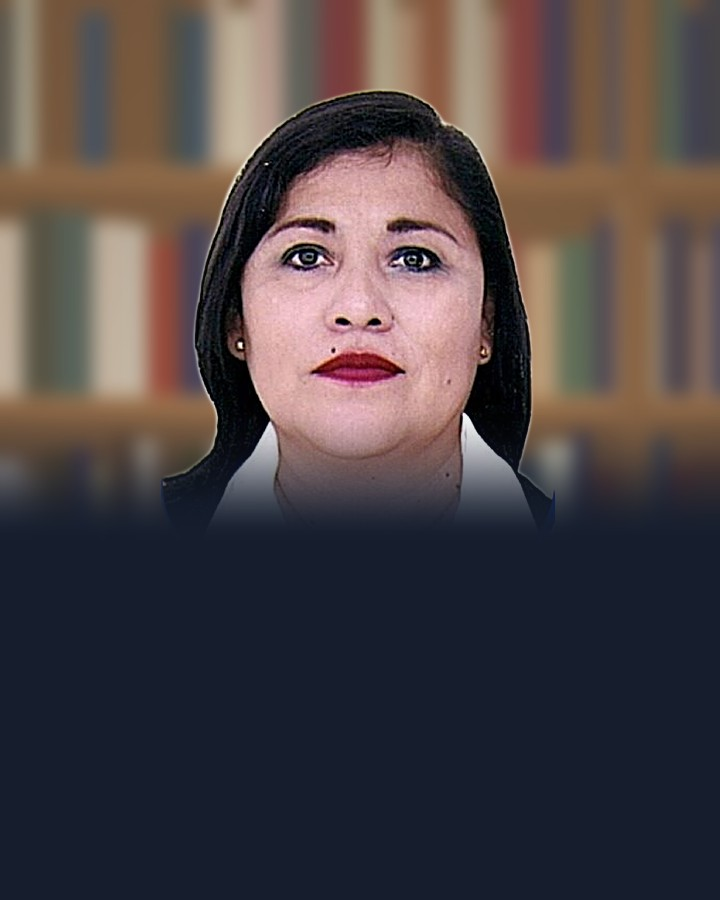
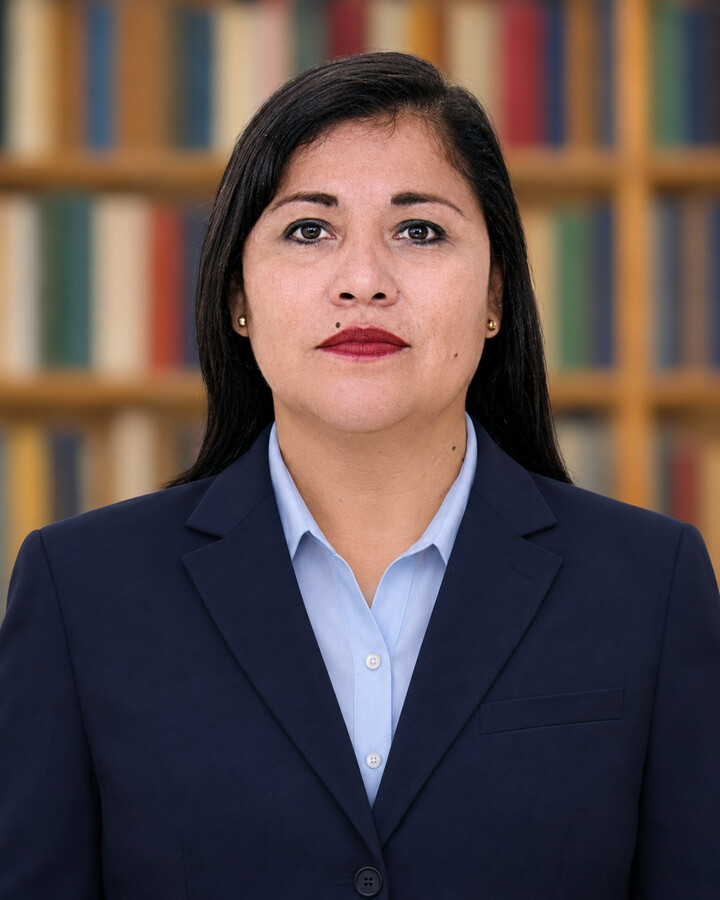
Actualiza retratos institucionales y formato vertical 4:5

diff --git a/public_html/assets/app/portal.css b/public_html/assets/app/portal.css
@@ -1687,7 +1687,7 @@ tr.pz-bad td{background:var(--errbg)}
 .pz-tgrid{display:grid;grid-template-columns:repeat(auto-fill,minmax(210px,1fr));gap:18px}
 .pz-tgrid.three{grid-template-columns:repeat(auto-fill,minmax(230px,1fr))}
 .pz-tcard{background:var(--navy);border-radius:4px;overflow:hidden;display:flex;flex-direction:column;box-shadow:var(--sh)}
-.pz-tcard .ph{aspect-ratio:4/4.3;background:var(--bg);overflow:hidden}.pz-tcard .ph img{width:100%;height:100%;object-fit:cover;display:block;transition:transform .3s}
+.pz-tcard .ph{aspect-ratio:4/5;background:var(--bg);overflow:hidden}.pz-tcard .ph img{width:100%;height:100%;object-fit:cover;display:block;transition:transform .3s}
 .pz-tcard:hover .ph img{transform:scale(1.04)}
 .pz-tcard .tb{padding:14px 12px 16px;text-align:center;color:#fff;display:flex;flex-direction:column;gap:4px;flex:1}
 .pz-tcard h3{color:#fff;font-size:15px;margin:0;line-height:1.3}.pz-tcard small{color:var(--gold2);font-size:12px}
@@ -1725,7 +1725,7 @@ tr.pz-bad td{background:var(--errbg)}
 .tb-intranet:hover{filter:brightness(1.06)}
 .pz-tgrid,.pz-tgrid.three{display:flex;flex-wrap:wrap;justify-content:center;gap:18px}
 .pz-tgrid>.pz-tcard{flex:0 1 calc((100% - 36px)/3);min-width:0}
-.pz-tcard .ph{aspect-ratio:3/4}
+.pz-tcard .ph{aspect-ratio:4/5}
 .pz-tcard .ph img,.person img,.director img,.profile img,.testi .who img,.pz-photo img{object-position:50% 18%}
 .pz-tcard .ml{word-break:normal;overflow-wrap:anywhere;text-align:center;line-height:1.35}
 .pz-tcard .ml svg{flex:none}
@@ -1884,7 +1884,7 @@ tr.pz-bad td{background:var(--errbg)}
 @media (max-width:900px){.director img{width:min(240px,70%);height:auto;aspect-ratio:3/4;max-height:none;margin:24px auto 0;border-radius:12px;border:3px solid rgba(255,255,255,.18)}.director .msg{text-align:center}}
 /* plana docente del programa:3 por fila en tablet y retrato proporcionado */
 @media (min-width:561px) and (max-width:1100px){.block .grid.g4:has(> .tcard){grid-template-columns:repeat(3,minmax(0,1fr))}}
-.block .tcard img{aspect-ratio:3/4;height:auto;object-fit:cover;object-position:50% 18%}
+.block .tcard img{aspect-ratio:4/5;height:auto;object-fit:cover;object-position:50% 18%}
 @media (max-width:900px){.prog-hero img[src*="/carrera/"]{opacity:.22;width:70%}}
 /* listados con miniatura (noticias, portada, etc.): el título no queda en una columna estrecha */
 @media (min-width:1500px){.tbl.rt tr:has(> td > img.thumb) > td:nth-child(2){min-width:200px}}
